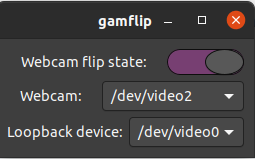
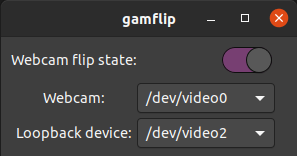
Update screenshot and align components similar to other GTK apps

diff --git a/gamflip.py b/gamflip.py
@@ -31,8 +31,8 @@ class FlipswitchWindow(Gtk.Window):
         label1.set_margin_bottom(10)
         grid.add(label1)
         flipswitch = Gtk.Switch(name="Switch")
-        flipswitch.set_margin_left(50)
-        flipswitch.set_margin_right(50)
+        flipswitch.set_margin_left(85)
+        flipswitch.set_margin_right(15)
         flipswitch.set_margin_bottom(10)
         flipswitch.connect("notify::active", self.on_switch_activated)
         flipswitch.set_active(False)
@@ -40,8 +40,8 @@ class FlipswitchWindow(Gtk.Window):
         
         # Row 2 - Source (Webcam)
         label2 = Gtk.Label(label="Webcam:")
-        label2.set_margin_bottom(10)
-        self.combobox_source.set_margin_bottom(10)
+        label2.set_margin_bottom(5)
+        self.combobox_source.set_margin_bottom(5)
         grid.attach_next_to(label2,label1,Gtk.PositionType.BOTTOM,1,2)
         grid.attach_next_to(self.combobox_source,label2,Gtk.PositionType.RIGHT,2,1)
         
